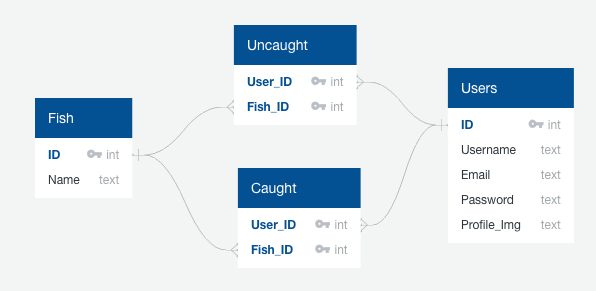
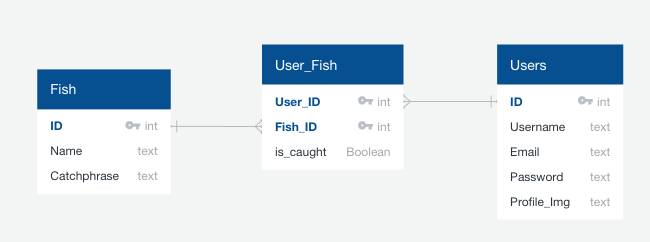
update README and Schema

diff --git a/README.md b/README.md
@@ -1,2 +1,36 @@
-# SBcapstone1
-API: http://acnhapi.com/
+# ACNH Fish Tracker
+##Description
+Animal Crossing: New Horizons (ACNH) is a Nintendo switch game where you can catch and discover different types of critters (Fish, Bugs, and Sea Creatures) and Fossils. ACNH Fish Tracker allows users to keep track of which fish they have already caught and which fish they still need to catch.
+
+##Features
+- Create a free user account
+- See all fish available to catch in the game
+- See one fish at a time (This only shows the name and the image, but will eventually add more info (See Future Features))
+- See a fish's catchphrase when you save it as "Caught"
+- Save fish as Caught or Uncaught
+- Future Features:
+	- Show additional information on each fish (seasonality, price, etc.)
+	- Filter the fish by name, seasonality, price
+	- Provide the same features for Bugs, Sea Creatures, and Fossils
+	- Share your Caught/Uncaught inventory with others
+
+##User Flow
+- Register or Login
+- Track your fish by clicking the "Caught" button below the fish image
+- If you accidentally marked a fish as "Caught," there should be an "Uncaught" button for that fish and you can click "Uncaught" to undo.
+
+##API Reference
+http://acnhapi.com/
+
+##Tech Stack
+ACNH Fish Tracker uses:
+- Python
+- HTML
+- Bootstrap
+- jQuery
+- Flask
+- PostgreSQL
+- SQLAlchemy
+- Jinja
+- Heroku
+- WTForms
